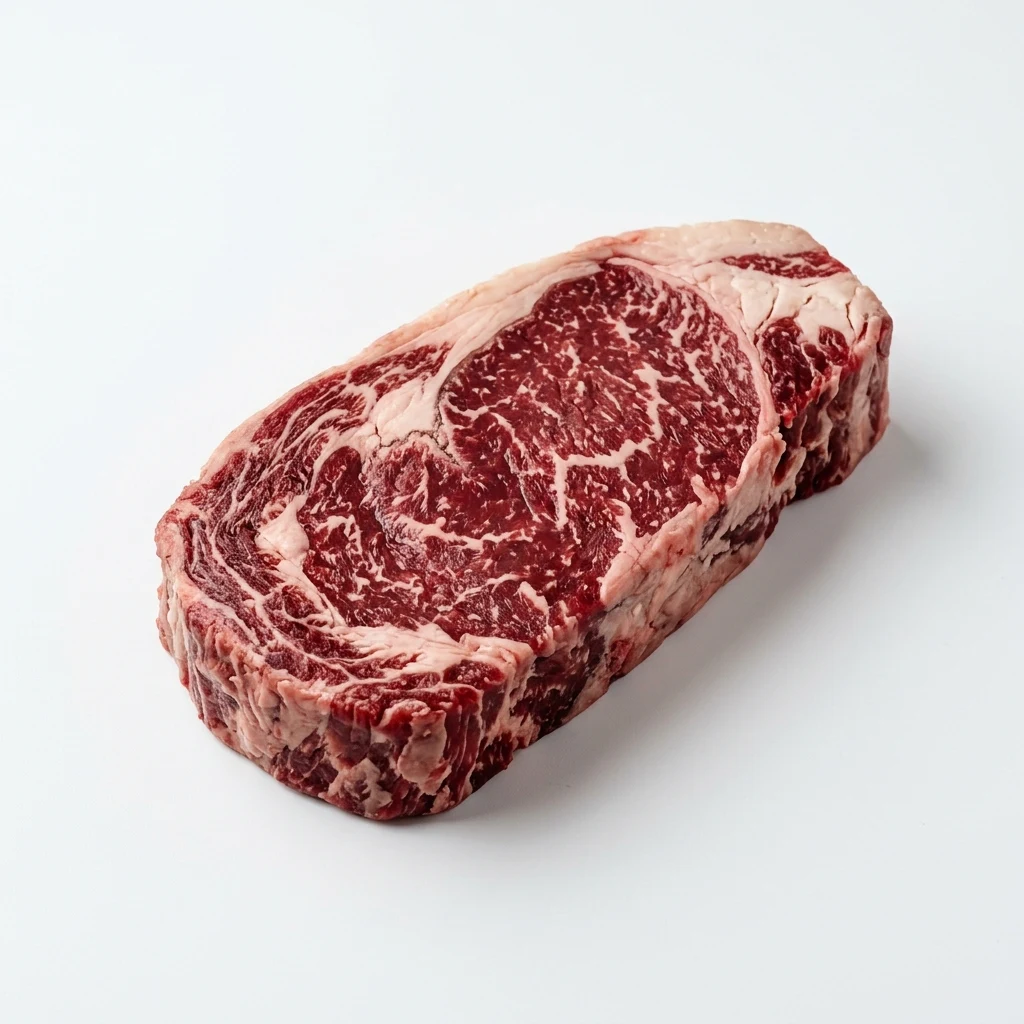
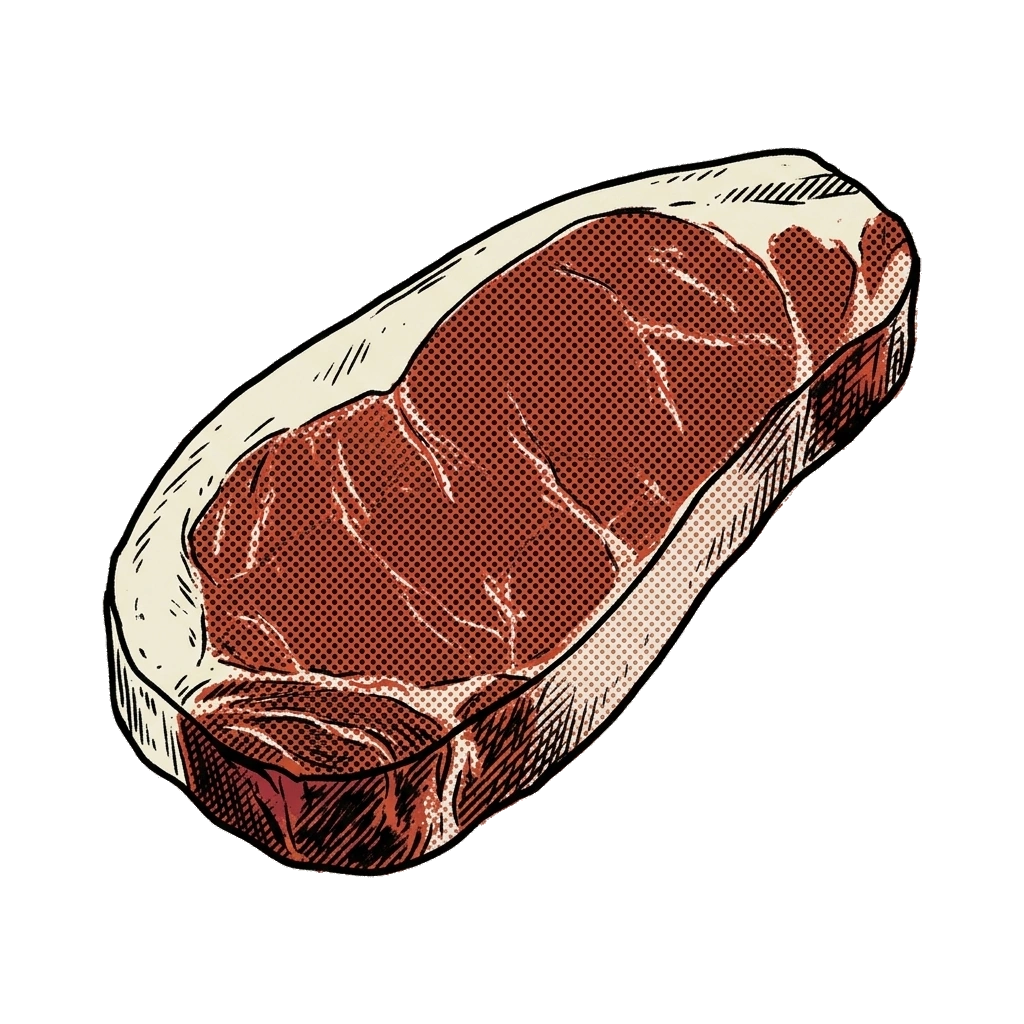
feat(atlas): complete halftone artwork and illustrated dossiers
Provide transparent artwork for all 24 cuts, distinct ribeye and sirloin illustrations, matching cow and pasture scenes, and SVG/PNG cow favicons. Integrate the artwork into cards and dossiers with responsive spacing for narrow screens.

diff --git a/assets/bauhaus.css b/assets/bauhaus.css
@@ -10,21 +10,23 @@ header.site-header{background:var(--bg);backdrop-filter:none;border-bottom:1px s
 .nav-wrap{max-width:1600px;height:88px;padding:0 48px;gap:30px}.brand{font:700 18px/1.1 'Space Grotesk',sans-serif;letter-spacing:-.8px}.brand svg{width:40px;height:32px}.nav-links{gap:26px}.nav-links a{font:500 12px Inter,sans-serif;letter-spacing:0;text-transform:none}.nav-search{border:0;border-bottom:1px solid var(--ink);border-radius:0;background:none;width:220px;padding:0 0 0 8px}.nav-search input{font-size:11px}
 .hero{padding:0;margin-bottom:0}.hero-meta{display:flex;justify-content:space-between;padding:19px 0;font:500 10px/1.4 Inter,sans-serif;text-transform:uppercase;letter-spacing:1.5px;border-bottom:1px solid var(--line)}
 .hero-grid{grid-template-columns:1.15fr 1fr;gap:0;min-height:580px}.hero-content{padding:48px 20px 42px 0;justify-content:space-between}.hero-kicker{font:500 11px Inter,sans-serif;text-transform:uppercase;letter-spacing:1.5px;margin:0 0 28px}.hero-title{font:600 clamp(76px,8.9vw,142px)/.92 'Space Grotesk',Arial,sans-serif;letter-spacing:-.085em;margin:0 0 40px;position:relative;z-index:2}.hero-title .accent-two{color:var(--red);white-space:nowrap}.hero-bottom{display:flex;align-items:end;justify-content:space-between;gap:20px;max-width:510px}.hero-desc{font-size:14px;line-height:1.65;max-width:34ch;margin:0;color:var(--ink)}.hero-go{display:grid;place-items:center;flex-shrink:0;width:76px;height:76px;background:var(--ink);color:var(--bg);border-radius:50%;text-decoration:none;font:42px Inter;transition:transform .2s,background .2s}.hero-go:hover{background:var(--red);transform:rotate(45deg)}
-.hero-art{position:relative;min-width:0;overflow:hidden;background:var(--gold);margin:28px 0 28px 24px;min-height:480px}.cow-disc{position:absolute;width:86%;aspect-ratio:1;left:7%;top:10%;border-radius:50%;overflow:hidden;background:var(--ink)}.cow-disc img{width:100%;height:100%;object-fit:cover;filter:grayscale(1) contrast(1.14);object-position:center}.art-stripes{position:absolute;right:-35px;top:-60px;width:200px;height:240px;background:repeating-linear-gradient(90deg,var(--ink) 0 2px,transparent 2px 13px);transform:rotate(-35deg)}.art-square{position:absolute;bottom:0;right:0;background:var(--red);width:32%;aspect-ratio:1;display:grid;place-items:center}.art-square span{font:110px/1 Inter;color:var(--bg)}.art-caption{position:absolute;bottom:22px;left:20px;background:var(--gold);padding:5px 7px;font:500 9px Inter;text-transform:uppercase;letter-spacing:1.1px}.art-plus{position:absolute;top:15px;left:19px;font:36px/1 Inter}
+.hero-art{position:relative;min-width:0;overflow:hidden;background:var(--gold);margin:28px 0 28px 24px;min-height:480px}.cow-disc{position:absolute;width:86%;aspect-ratio:1;left:7%;top:10%;border-radius:50%;overflow:hidden;background:var(--ink)}.cow-disc img{width:100%;height:100%;object-fit:contain;object-position:center;padding:4%;background:var(--bg)}.art-stripes{position:absolute;right:-35px;top:-60px;width:200px;height:240px;background:repeating-linear-gradient(90deg,var(--ink) 0 2px,transparent 2px 13px);transform:rotate(-35deg)}.art-square{position:absolute;bottom:0;right:0;background:var(--red);width:32%;aspect-ratio:1;display:grid;place-items:center}.art-square span{font:110px/1 Inter;color:var(--bg)}.art-caption{position:absolute;bottom:22px;left:20px;background:var(--gold);padding:5px 7px;font:500 9px Inter;text-transform:uppercase;letter-spacing:1.1px}.art-plus{position:absolute;top:15px;left:19px;font:36px/1 Inter}
 .hero-index{display:grid;grid-template-columns:repeat(3,1fr);border-top:1px solid var(--ink);border-bottom:1px solid var(--ink)}.hero-index a{position:relative;display:flex;flex-direction:column;gap:9px;padding:24px 28px;color:var(--ink);text-decoration:none;font:500 19px 'Space Grotesk',sans-serif;border-right:1px solid var(--line)}.hero-index a:first-child{padding-left:0}.hero-index a:last-child{border-right:0}.hero-index span{font:500 9px Inter;text-transform:uppercase;letter-spacing:1.4px;color:var(--mut)}.hero-index b{position:absolute;right:28px;bottom:25px;font:24px Inter}.hero-index a:hover b{color:var(--red)}
 .chapter-heading{display:grid;grid-template-columns:1fr 2fr 1fr;align-items:end;gap:24px;padding:70px 0 30px}.eyebrow{font:600 10px/1.6 Inter;letter-spacing:1.4px;text-transform:uppercase;max-width:140px}.chapter-heading h2{font:500 clamp(28px,3vw,44px)/1.1 'Space Grotesk',sans-serif;letter-spacing:-2px;margin:0}.chapter-heading p{font-size:11px;line-height:1.7;margin:0}
 .grid-2col-main{grid-template-columns:minmax(0,1fr) 310px;gap:0;margin:0;border:1px solid var(--ink)}.card-box{border:0;border-radius:0;box-shadow:none;padding:30px;background:transparent;min-width:0}.grid-2col-main>div+div{border-left:1px solid var(--ink)}#explore>div+div{gap:0!important}#explore>div+div>.card-box{padding:24px}.red-tab-overhang{display:none}.section-tag{gap:12px}.section-tag::before{height:9px;width:9px;border-radius:50%;flex-shrink:0}.section-title{font:500 22px/1.2 'Space Grotesk',sans-serif;text-transform:none;letter-spacing:-.8px}.section-sub{font:400 10px/1.6 Inter,sans-serif;text-transform:none;letter-spacing:0;padding-left:21px;margin:8px 0 25px}
 .cows-compare-grid{gap:24px;margin-top:35px}.cow-column{padding:10px 0 0}.cow-stage-svg{filter:none}.cow-col-footer{border-top:1px solid var(--line);padding-top:20px;margin-top:16px}.cow-col-info h4{font:500 20px 'Space Grotesk',sans-serif;text-transform:none;letter-spacing:-.5px}.cow-col-info p{font-size:10px}.cow-btn-action{box-shadow:none;width:44px;height:44px;border:0;background:var(--red)}.cow-btn-action.blue{background:var(--navy)}
 .market-header h4{font:500 13px 'Space Grotesk';text-transform:none;letter-spacing:0}.market-header svg{color:var(--red)}.market-price{font-family:'Space Grotesk',sans-serif;font-size:44px;letter-spacing:-3px}.market-price span{letter-spacing:0}.market-steak-img{border-radius:50%;width:70px;height:70px;mix-blend-mode:multiply}.card-bottom-link{font:600 10px Inter,sans-serif;letter-spacing:.6px;text-transform:uppercase;margin-top:20px}.blue-tint{background:var(--navy)!important;color:#fff}.blue-tint .section-tag::before{background:var(--gold)}.blue-tint h4{font:500 20px 'Space Grotesk',sans-serif!important;text-transform:none!important;letter-spacing:-.5px!important}.cut-search-box{border-radius:0;border:0}.cut-chip{background:transparent;color:inherit;border:1px solid #9aade3;border-radius:0;font-size:10px;padding:7px 10px;min-height:34px}.cut-chip:hover{background:var(--bg);color:var(--navy)}
-.grid-2col-split{gap:0;grid-template-columns:1fr 1fr;border:1px solid var(--ink);margin:0 0 -1px}.grid-2col-split>div+div{border-left:1px solid var(--ink)}.grid-2col-split .card-box{padding:30px}.legend{font:10px Inter;text-transform:none;letter-spacing:0;margin:0 0 10px}.quote-card{border-radius:0;background:var(--gold);padding:32px;min-height:340px;position:relative;overflow:hidden}.quote-mark{font-family:'Space Grotesk';font-size:64px;line-height:.8;color:var(--red)}.quote-text{font:500 clamp(28px,3vw,46px)/1.06 'Space Grotesk',sans-serif;letter-spacing:-1.8px;position:relative;z-index:1;max-width:85%}.quote-rule{background:var(--ink)}.quote-graphic-bottom{position:absolute;right:-60px;bottom:-100px;width:260px;height:260px;border-radius:50%;overflow:hidden;opacity:.55}.quote-graphic-bottom img{width:100%;height:100%;object-fit:cover;filter:grayscale(1);mix-blend-mode:multiply}
+.grid-2col-split{gap:0;grid-template-columns:1fr 1fr;border:1px solid var(--ink);margin:0 0 -1px}.grid-2col-split>div+div{border-left:1px solid var(--ink)}.grid-2col-split .card-box{padding:30px}.legend{font:10px Inter;text-transform:none;letter-spacing:0;margin:0 0 10px}.quote-card{border-radius:0;background:var(--gold);padding:32px;min-height:340px;position:relative;overflow:hidden}.quote-mark{font-family:'Space Grotesk';font-size:64px;line-height:.8;color:var(--red)}.quote-text{font:500 clamp(28px,3vw,46px)/1.06 'Space Grotesk',sans-serif;letter-spacing:-1.8px;position:relative;z-index:1;max-width:85%}.quote-rule{background:var(--ink)}.quote-graphic-bottom{position:absolute;right:-60px;bottom:-100px;width:260px;height:260px;border-radius:50%;overflow:hidden}.quote-graphic-bottom img{width:100%;height:100%;object-fit:cover;border-radius:0;filter:none}
 #popular-cuts{margin-top:48px;margin-bottom:38px!important}.popular-cuts-grid{gap:0;grid-template-columns:repeat(3,1fr)}.cut-card{border:0;border-top:1px solid var(--line);border-radius:0;background:transparent;padding:18px 12px;min-width:0;transition:background .2s}.cut-card:hover{box-shadow:none;transform:none;background:#e6e5da}.cut-card img{height:90px;mix-blend-mode:multiply}.cut-card-name{font:500 14px 'Space Grotesk',sans-serif}.cut-card-price{font-size:10px}.brand-callout-card{border-radius:0;background:var(--red);padding:30px}.brand-callout-title{font:500 40px/1.02 'Space Grotesk',sans-serif;text-transform:none;letter-spacing:-1.8px}.btn-about{border-radius:0;background:transparent;border-bottom:1px solid #fff;padding:12px 0;font:500 10px Inter;text-transform:none;letter-spacing:0}.brand-cow-icon{width:100px;height:60px}.data-note{margin:0 0 40px;font-size:11px}.site-footer{background:var(--ink);color:var(--bg);padding:45px 48px;display:flex;align-items:center;justify-content:space-between;gap:30px}.site-footer>a:first-child{color:inherit;text-decoration:none;font:500 36px/.95 'Space Grotesk';letter-spacing:-2px}.site-footer p{font-size:12px}.footer-shapes{display:flex;gap:8px}.footer-shapes i{display:block;width:46px;height:46px;background:var(--red)}.footer-shapes i:nth-child(2){background:var(--gold);border-radius:50%}.footer-shapes i:nth-child(3){background:var(--navy);clip-path:polygon(50% 0,100% 100%,0 100%)}.back-top{color:inherit;font-size:11px}.modal-card{border-radius:0}.modal-close-btn{min-width:44px;min-height:44px}
 @media(min-width:1500px){.hero-grid{min-height:650px}.hero-art{min-height:570px}}
 @media(max-width:1100px){.wrap{padding:0 28px}.nav-wrap{padding:0 28px}.nav-links{gap:16px}.hero-grid{min-height:500px}.hero-art{min-height:420px;margin-left:10px}.hero-title{font-size:9.2vw}.grid-2col-main{grid-template-columns:minmax(0,1fr) 270px}.card-box{padding:24px}.chapter-heading{grid-template-columns:1fr 2fr}.chapter-heading p{display:none}.cows-compare-grid{gap:15px}.cow-col-info h4{font-size:17px}}
-@media(max-width:800px){.nav-wrap{height:auto;min-height:76px;grid-template-columns:1fr auto;gap:10px;padding-top:16px;padding-bottom:14px}.nav-links{display:flex;grid-column:1/-1;grid-row:2;justify-content:flex-start;gap:24px;padding-top:8px;overflow:auto}.nav-search{width:150px}.brand{font-size:15px}.hero-meta span:nth-child(2){display:none}.hero-grid{grid-template-columns:1fr}.hero-content{padding:35px 0}.hero-title{font-size:clamp(76px,15vw,120px);margin-bottom:28px}.hero-bottom{max-width:none}.hero-art{min-height:0;aspect-ratio:1.25;margin:0 0 28px}.cow-disc{width:70%;left:15%;top:6%}.art-square{width:25%}.hero-index a{font-size:14px;padding:20px 12px}.hero-index span{font-size:8px;letter-spacing:.5px}.hero-index b{position:static;font-size:20px}.chapter-heading{padding:48px 0 24px;grid-template-columns:1fr;gap:12px}.eyebrow{max-width:none}.chapter-heading h2{letter-spacing:-1px}.grid-2col-main,.grid-2col-split{grid-template-columns:1fr}.grid-2col-main>div+div,.grid-2col-split>div+div{border-left:0;border-top:1px solid var(--ink)}#explore>div+div{display:grid!important;grid-template-columns:1fr 1fr}.cows-compare-grid{grid-template-columns:1fr 1fr;margin-top:20px}.quote-card{min-height:320px}.quote-text{font-size:40px}.brand-callout-card{min-height:270px}.site-footer{padding:32px 28px;flex-wrap:wrap}.site-footer p{display:none}}
+@media(max-width:800px){.nav-wrap{height:auto;min-height:76px;grid-template-columns:1fr auto;gap:10px;padding-top:16px;padding-bottom:14px}.nav-links{display:flex;grid-column:1/-1;grid-row:2;justify-content:flex-start;gap:24px;padding-top:8px;overflow:auto}.nav-search{width:150px}.brand{font-size:15px}.hero-meta span:nth-child(2){display:none}.hero-grid{grid-template-columns:1fr}.hero-content{padding:35px 0}.hero-title{font-size:clamp(76px,15vw,120px);margin-bottom:28px}.hero-bottom{max-width:none}.hero-art{min-height:0;aspect-ratio:1.25;margin:0 0 28px}.cow-disc{width:70%;left:15%;top:6%}.art-square{width:25%}.hero-index a{font-size:14px;padding:20px 12px}.hero-index span{font-size:8px;letter-spacing:.5px}.hero-index b{position:static;font-size:20px}.chapter-heading{padding:48px 0 24px;grid-template-columns:1fr;gap:12px}.eyebrow{max-width:none}.chapter-heading h2{letter-spacing:-1px}.grid-2col-main,.grid-2col-split{grid-template-columns:1fr}.grid-2col-main>div+div,.grid-2col-split>div+div{border-left:0;border-top:1px solid var(--ink)}#explore>div+div{display:grid!important;grid-template-columns:1fr 1fr}.cows-compare-grid{grid-template-columns:1fr 1fr;margin-top:20px}.quote-card{min-height:320px;padding-bottom:190px}.quote-text{font-size:clamp(28px,8.7vw,40px);max-width:100%}.brand-callout-card{min-height:270px}.site-footer{padding:32px 28px;flex-wrap:wrap}.site-footer p{display:none}}
 @media(max-width:480px){.wrap{padding:0 18px}.nav-wrap{padding-left:18px;padding-right:18px}.brand svg{width:28px}.brand{font-size:13px;gap:7px}.nav-search{width:122px}.nav-search input{font-size:10px}.nav-links{justify-content:space-between;gap:12px;width:100%}.hero-meta{font-size:8px;letter-spacing:1px}.hero-title{font-size:18vw}.hero-kicker{font-size:9px}.hero-desc{font-size:12px}.hero-go{width:60px;height:60px;font-size:32px}.hero-index a{font-size:12px}.hero-index span{font-size:7px}.art-square span{font-size:70px}.art-caption{font-size:7px;bottom:14px}.card-box,.grid-2col-split .card-box{padding:22px 16px}.section-title{font-size:21px}.cows-compare-grid{grid-template-columns:1fr;gap:26px}.cow-stage-svg{max-height:220px}.cow-column{width:100%}.cow-col-footer{margin-top:8px}.cow-col-info h4{font-size:20px}#explore>div+div{grid-template-columns:1fr}.popular-cuts-grid{grid-template-columns:repeat(2,1fr)}.site-footer>a:first-child{font-size:28px}.footer-shapes i{width:30px;height:30px}.back-top{width:100%}}
 @media(prefers-reduced-motion:reduce){html{scroll-behavior:auto}*,*::before,*::after{transition:none!important;animation:none!important}}
 
-.extra-cuts{border:1px solid var(--ink);margin-bottom:36px}.extra-cuts>p{font-size:12px;max-width:75ch}.extra-price-grid{display:grid;grid-template-columns:repeat(4,1fr);gap:12px;margin:24px 0}.extra-cut{display:flex;flex-direction:column;gap:12px;text-align:left;padding:20px 12px;border:1px solid var(--line-dark);background:transparent;min-width:0}.extra-cut:hover{background:var(--gold)}.extra-cut b{font-family:'Space Grotesk',sans-serif}.extra-cut span{font-size:11px}.extra-price-note{color:var(--mut)}@media(max-width:800px){.extra-price-grid{grid-template-columns:repeat(2,1fr)}}
+.extra-cuts{border:1px solid var(--ink);margin-bottom:36px}.extra-cuts>p{font-size:12px;max-width:75ch}.extra-price-grid{display:grid;grid-template-columns:repeat(4,1fr);gap:12px;margin:24px 0}.extra-cut{display:flex;flex-direction:column;gap:12px;text-align:left;padding:20px 12px;border:1px solid var(--line-dark);background:transparent;min-width:0;cursor:pointer;transition:background .2s}.extra-cut:hover{background:var(--gold)}.extra-cut img{height:110px;width:100%;object-fit:contain;margin-bottom:4px;mix-blend-mode:multiply;transition:transform .2s}.extra-cut:hover img{transform:scale(1.05)}.extra-cut b{font-family:'Space Grotesk',sans-serif}.extra-cut span{font-size:11px}.extra-price-note{color:var(--mut)}@media(max-width:800px){.extra-price-grid{grid-template-columns:repeat(2,1fr)}}
+.modal-cut-hero{display:flex;justify-content:center;align-items:center;padding:16px;margin:0 0 16px;background:var(--bg);border:1px solid var(--line);border-radius:2px}
+.modal-cut-illustration{max-height:160px;width:auto;max-width:100%;object-fit:contain;mix-blend-mode:multiply}
 
 /* Truth-and-harmony additions retain the existing palette and geometry. */
 .reference-note{font-size:12px;line-height:1.6;color:var(--mut)}
@@ -42,6 +44,7 @@ header.site-header{background:var(--bg);backdrop-filter:none;border-bottom:1px s
 .modal-overlay:not([open]){display:none}
 dialog.modal-overlay{margin:0;width:100%;max-width:none;max-height:none;border:0;height:100%}
 .modal-card{min-width:0;overflow-wrap:anywhere}
+.cut-dossier-heading{flex-wrap:wrap;padding-right:52px}
 #modal-cut-title{padding-right:45px}
 .cut-dossier-grid{display:grid;grid-template-columns:minmax(0,1fr) minmax(0,200px);gap:20px;background:#fff;padding:16px;border:1px solid var(--line);margin-bottom:20px}
 .cut-traits{display:flex;flex-wrap:wrap;gap:16px;font-size:13px;margin-top:10px}

diff --git a/index.html b/index.html
@@ -4,6 +4,8 @@
 <meta charset="utf-8">
 <meta name="viewport" content="width=device-width,initial-scale=1">
 <title>The Cow, Two Ways — Same Animal. Different Perspective.</title>
+<link rel="icon" type="image/png" sizes="32x32" href="assets/favicon-32.png">
+<link rel="icon" type="image/svg+xml" sizes="any" href="assets/favicon.svg">
 <link rel="preconnect" href="https://fonts.googleapis.com">
 <link href="https://fonts.googleapis.com/css2?family=Space+Grotesk:wght@400;500;600;700&family=Inter:wght@400;500;600;700&family=Oswald:wght@500;600;700&family=Playfair+Display:ital,wght@0,600;0,700;0,900;1,400&display=swap" rel="stylesheet">
 <!-- D3.js v7 and D3-Sankey with CDN fallback -->
@@ -876,7 +878,7 @@ header.site-header{
       </div>
       <div class="hero-art">
         <div class="art-stripes" aria-hidden="true"></div>
-        <div class="cow-disc"><img src="assets/hero_cow.webp" alt="Close portrait of a Hereford steer" fetchpriority="high"></div>
+        <div class="cow-disc"><img src="assets/hero_cow.webp" alt="Halftone portrait of a horned, white-faced cow" fetchpriority="high"></div>
         <span class="art-caption">Fig. 01 / The starting point</span>
         <span class="art-plus" aria-hidden="true">+</span>
         <div class="art-square" aria-hidden="true"><span>↗</span></div>
@@ -1028,7 +1030,7 @@ header.site-header{
         <div class="quote-rule"></div>
       </div>
       <div class="quote-graphic-bottom">
-        <img src="assets/pasture_fence.webp" alt="Pasture fence at sunset">
+        <img src="assets/pasture_fence.webp" alt="Halftone pasture scene with a fence leading toward distant farm buildings">
       </div>
     </div>
   </div>
@@ -1099,10 +1101,10 @@ header.site-header{
     <h2 id="extra-heading" class="section-title">Beyond the usual cuts</h2>
     <p>Bone-in steak, sweetbreads, kidney, and tongue. Argentine retail listings; US prices are not yet connected.</p>
     <div class="extra-price-grid">
-      <button class="extra-cut" data-cut="bife-costilla"><b>Bife de costilla</b><span>Bone-in steak</span><span class="cut-card-price" data-ar="bife_costilla">Not available</span></button>
-      <button class="extra-cut" data-cut="molleja"><b>Mollejas</b><span>Sweetbreads · gland unverified</span><span class="cut-card-price" data-ar="molleja">Not available</span></button>
-      <button class="extra-cut" data-cut="rinon"><b>Riñón</b><span>Beef kidney</span><span class="cut-card-price" data-ar="rinon">Not available</span></button>
-      <button class="extra-cut" data-cut="lengua"><b>Lengua</b><span>Beef tongue</span><span class="cut-card-price" data-ar="lengua">Not available</span></button>
+      <button class="extra-cut" data-cut="bife-costilla"><img src="assets/cut_bife_costilla.webp" alt="Bife de costilla" class="extra-cut-img"><b>Bife de costilla</b><span>Bone-in steak</span><span class="cut-card-price" data-ar="bife_costilla">Not available</span></button>
+      <button class="extra-cut" data-cut="molleja"><img src="assets/cut_molleja.webp" alt="Mollejas" class="extra-cut-img"><b>Mollejas</b><span>Sweetbreads · gland unverified</span><span class="cut-card-price" data-ar="molleja">Not available</span></button>
+      <button class="extra-cut" data-cut="rinon"><img src="assets/cut_rinon.webp" alt="Riñón" class="extra-cut-img"><b>Riñón</b><span>Beef kidney</span><span class="cut-card-price" data-ar="rinon">Not available</span></button>
+      <button class="extra-cut" data-cut="lengua"><img src="assets/cut_lengua.webp" alt="Lengua" class="extra-cut-img"><b>Lengua</b><span>Beef tongue</span><span class="cut-card-price" data-ar="lengua">Not available</span></button>
     </div>
     <p class="extra-price-note">Stored catalog references in USD/lb. Availability and conversion dates belong to the observation; they do not establish today's offer. Missing prices are never borrowed from another cut.</p>
   </section>
@@ -1180,6 +1182,33 @@ const CUT_RELATIONSHIPS = {
   molleja:{type:'Organ reference; gland unresolved'}
 };
 for (const cut of ALL_CUTS) cut.relationship = CUT_RELATIONSHIPS[cut.id] || {type:'Terminology reference; exact purchase specification unreviewed'};
+
+const CUT_IMAGE_MAP = {
+  'bife-ancho': 'assets/cut_ribeye.webp',
+  'bife-angosto': 'assets/cut_bife_chorizo.webp',
+  'aguja': 'assets/cut_aguja.webp',
+  'vacio': 'assets/cut_vacio.webp',
+  'entrana': 'assets/cut_entrana.webp',
+  'matambre': 'assets/cut_matambre.webp',
+  'costillar': 'assets/cut_asado_tira.webp',
+  'cuadril': 'assets/cut_cuadril.webp',
+  'peceto': 'assets/cut_peceto.webp',
+  'nalga': 'assets/cut_nalga.webp',
+  'bife-costilla': 'assets/cut_bife_costilla.webp',
+  'molleja': 'assets/cut_molleja.webp',
+  'rinon': 'assets/cut_rinon.webp',
+  'lengua': 'assets/cut_lengua.webp',
+  'pecho': 'assets/cut_brisket.webp',
+  'lomo': 'assets/cut_tenderloin.webp',
+  'paleta': 'assets/cut_paleta.webp',
+  'colita': 'assets/cut_colita_cuadril.webp',
+  'tapa': 'assets/cut_tapa_cuadril.webp',
+  'brazuelo': 'assets/cut_brazuelo.webp',
+  'garron': 'assets/cut_garron.webp',
+  'cogote': 'assets/cut_cogote.webp',
+  'bola': 'assets/cut_bola_lomo.webp',
+  'cuadrada': 'assets/cut_cuadrada.webp'
+};
 
 const BY_ID = Object.fromEntries(ALL_CUTS.map(c=>[c.id, c]));
 
@@ -1668,18 +1697,21 @@ function openPrimalModal(primal) {
 function openCutModal(cut) {
   if (!cut) return;
   if (typeof cutList !== "undefined" && cutList.includes(cut.id)) cutIndex = cutList.indexOf(cut.id);
+  const cutImg = CUT_IMAGE_MAP[cut.id];
+  const heroHtml = cutImg ? `<div class="modal-cut-hero"><img src="${cutImg}" alt="${escapeHtml(cut.n)}" class="modal-cut-illustration"></div>` : '';
   if (EXTRA_CUTS.includes(cut)) {
-    modalContent.innerHTML = `<h2 id="modal-cut-title">${cut.n}</h2><p>${cut.eq}</p><p>${cut.info}</p><p class="reference-note">${cut.relationship.type}</p>${priceBlock(cut)}<p>US price is not connected for this entry. Argentine catalog observations retain their original availability and FX dates; they do not establish a current offer.</p>`;
+    modalContent.innerHTML = `${heroHtml}<h2 id="modal-cut-title">${escapeHtml(cut.n)}</h2><p>${escapeHtml(cut.eq)}</p><p>${escapeHtml(cut.info)}</p><p class="reference-note">${escapeHtml(cut.relationship.type)}</p>${priceBlock(cut)}<p>US price is not connected for this entry. Argentine catalog observations retain their original availability and FX dates; they do not establish a current offer.</p>`;
     focusModal();
     return;
   }
   const primal = WHOLESALE_PRIMALS.find(p => p.key === cut.us) || WHOLESALE_PRIMALS[0];
   modalContent.innerHTML = `
-    <div style="display:flex;align-items:center;gap:12px;margin-bottom:6px">
+    <div class="cut-dossier-heading" style="display:flex;align-items:center;gap:12px;margin-bottom:6px">
       <span style="font-family:'Oswald';font-size:.84rem;letter-spacing:.1em;text-transform:uppercase;color:var(--red);font-weight:700">Retail Cut Dossier</span>
       <span style="font-size:.8rem;color:var(--mut)">• US ${primal.n} Primal</span>
     </div>
-    <h2 id="modal-cut-title" style="font-family:'Playfair Display',serif;font-size:2.4rem;margin:0 0 4px;color:var(--ink)">${cut.n}</h2>
+    ${heroHtml}
+    <h2 id="modal-cut-title" style="font-family:'Playfair Display',serif;font-size:2.4rem;margin:0 0 4px;color:var(--ink)">${escapeHtml(cut.n)}</h2>
     <div style="font-size:1.05rem;color:var(--navy);margin-bottom:16px">
       Name / qualified relationship: <b>${cut.eq}</b><p class="reference-note">Anatomical overlap or cooking context does not establish interchangeable specifications. ${cut.relationship.type}.${cut.relationship.source ? ` <a href="${cut.relationship.source}" target="_blank" rel="noopener">Reference source</a>` : ''}</p>
     </div>
